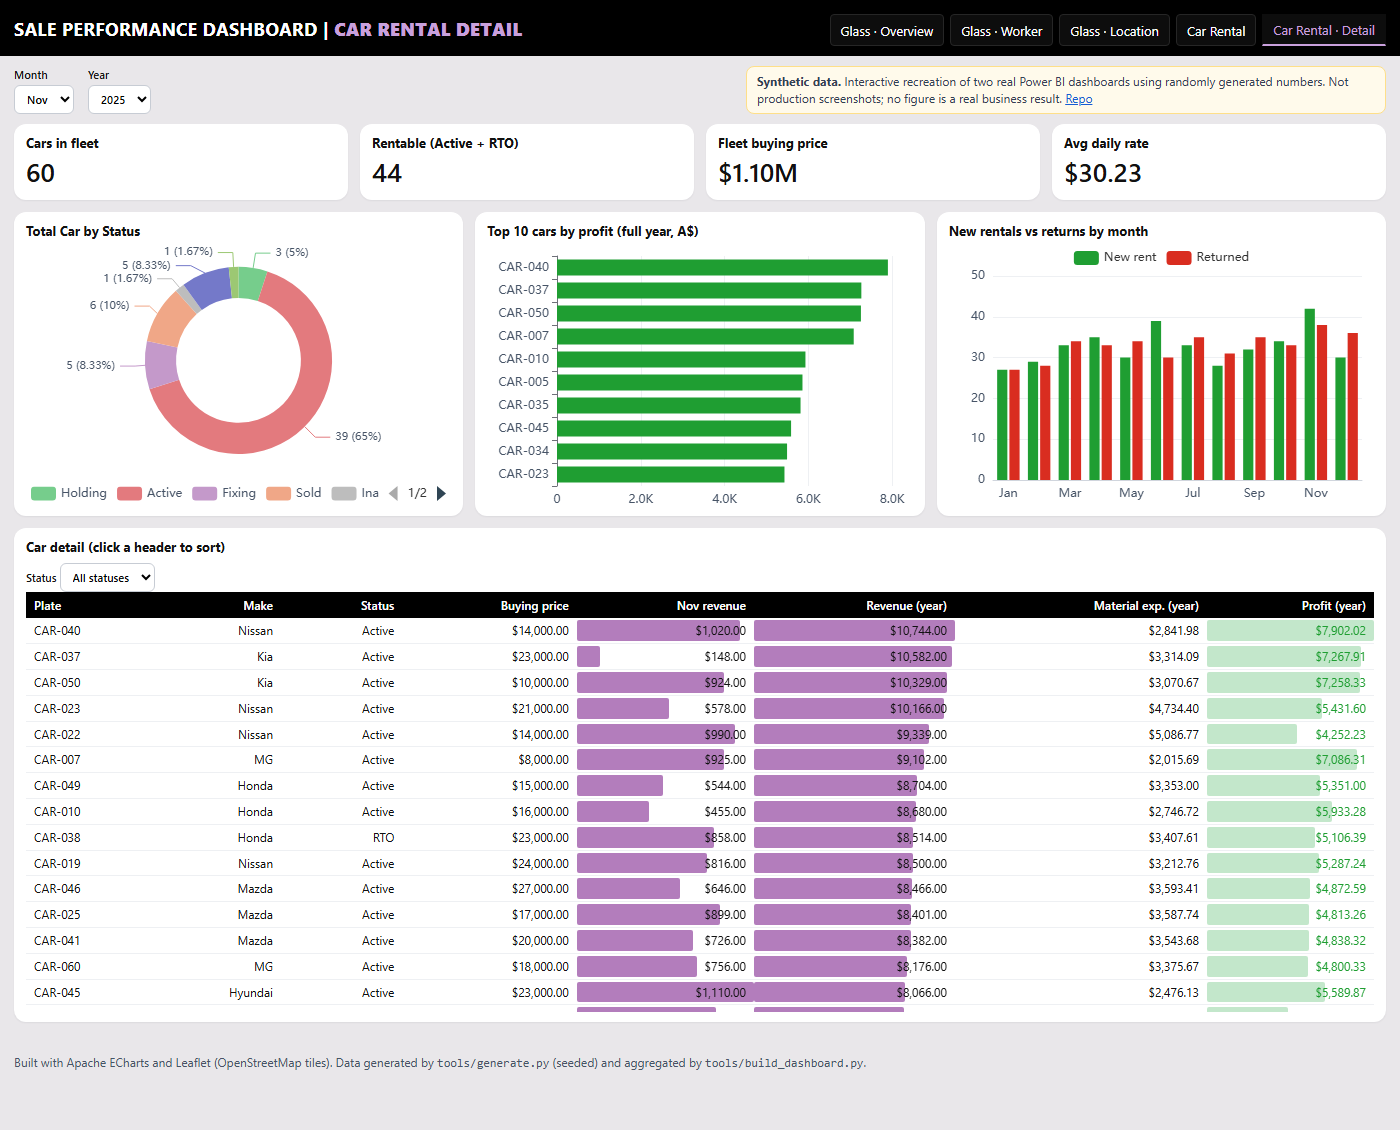
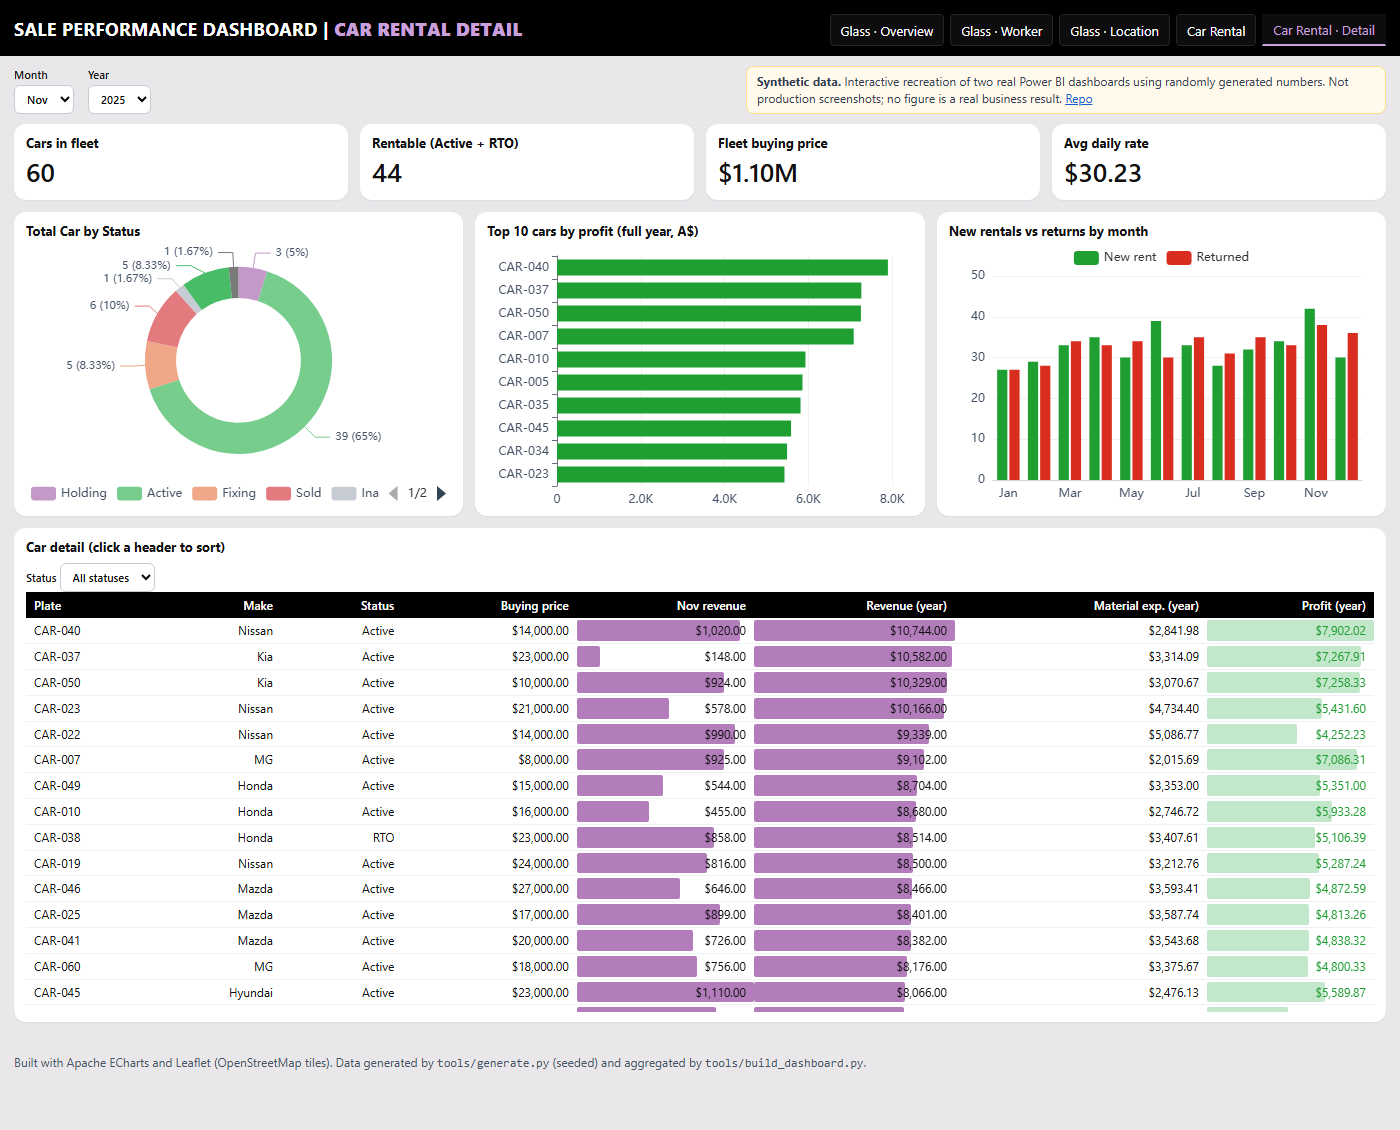
Assign pie/donut colors by category name (status, promotion, material)

Changed region(s): [[0.0921, 0.2168, 0.2457, 0.4027], [0.1843, 0.4336, 0.215, 0.4646], [0.1229, 0.4336, 0.1536, 0.4646]]

diff --git a/docs/index.html b/docs/index.html
@@ -221,6 +221,7 @@ function tbl(cols,rows,o){
   return h+"</tbody></table>";
 }
 function donut(id,data,center,colors){
+  if(colors&&!Array.isArray(colors)){var map=colors;colors=undefined;data=data.map(function(d){return {name:d.name,value:d.value,itemStyle:{color:map[d.name]||"#999"}};});}
   opt(id,{tooltip:{trigger:"item",formatter:function(p){return p.name+": "+usd(p.value,true)+" ("+p.percent+"%)";}},
     legend:{type:"scroll",bottom:0,textStyle:{color:"#475467"}},color:colors,
     title:center?{text:center,left:"center",top:"38%",textStyle:{fontSize:20,fontWeight:400}}:undefined,
@@ -276,7 +277,7 @@ function renderGOver(m){
   for(var i=from;i<=m;i++)cats.push(MN[i-1]);
   stacked("g-expbr",cats,cl.map(function(k){var a=[];for(var i=from;i<=m;i++)a.push(Math.round((GEC[i]||{})[k]||0));return [k,a];}),["#161616","#0e4a7a","#d6d6d6","#ff7733","#7a7a7a","#19a803","#5f8fb3","#bdbdbd","#f2c94c"]);
   var pm=GP[m]||{},names=Object.keys(pm).sort(function(a,b){return pm[b].s-pm[a].s;});
-  donut("g-promo",names.map(function(k){return {name:k,value:+pm[k].s.toFixed(2)};}),null,[ORANGE,BLACK,"#7a7a7a","#bdbdbd","#e0e0e0","#326a96"]);
+  donut("g-promo",names.map(function(k){return {name:k,value:+pm[k].s.toFixed(2)};}),null,{BOGO:ORANGE,B4G4:"#1a1a1a",BSGM:"#7a7a7a",B3G2:"#bdbdbd",B2G2:"#e0e0e0",IM:"#326a96"});
   $("g-promotbl").innerHTML=tbl([{t:"Promotion"},{t:"Number Promo"},{t:"Promo Expenses",bar:ORANGE,f:function(v){return usd(v,true);}},{t:"Cost",f:function(v){return usd(v,true);}},{t:"Total Sales",bar:ORANGE,f:function(v){return usd(v,true);}},{t:"Profit",bar:"#6f95b3",f:function(v){return usd(v,true);}}],
     names.map(function(k){var o=pm[k];return {v:[k,o.n,o.p,o.c,o.s,o.s-o.c-o.p]};}));
   var ec=GEC[m]||{},hr=(ec["Worker Salary"]||0)+(ec["Sales Salary"]||0);
@@ -356,7 +357,7 @@ function renderCOver(m){
   var from=Math.max(1,m-2),cats=[];for(var i=from;i<=m;i++)cats.push(MN[i-1]);
   stacked("c-opbr",cats,["Material","HR","MKT","Office"].map(function(k){var a=[];for(var i=from;i<=m;i++)a.push(Math.round((CG[i]||{})[k]||0));return [k,a];}),["#111","#74cd8b","#a5e3ea","#5a007a"]);
   stacked("c-matbr",cats,Object.keys(CCOL).map(function(k){var a=[];for(var i=from;i<=m;i++)a.push(Math.round((CC[i]||{})[k]||0));return [k,a];}),Object.keys(CCOL).map(function(k){return CCOL[k];}));
-  donut("c-matdonut",Object.keys(mt).map(function(k){return {name:k,value:+mt[k].toFixed(2)};}),null,Object.keys(mt).map(function(k){return CCOL[k]||"#999";}));
+  donut("c-matdonut",Object.keys(mt).map(function(k){return {name:k,value:+mt[k].toFixed(2)};}),null,CCOL);
   // grouped detail
   var items=(CITEMS[m]||[]).slice().sort(function(a,b){return b[5]-a[5];}),groups={};
   items.forEach(function(r){(groups[r[2]]=groups[r[2]]||[]).push(r);});
@@ -379,7 +380,7 @@ function renderCDet(m){
   var sc={};C.cars.forEach(function(c){add(sc,c[3],1);});
   var rent=C.cars.filter(function(c){return c[3]==="Active"||c[3]==="RTO";}).length;
   $("d-kpis").innerHTML=kpi(3,"Cars in fleet",C.cars.length)+kpi(3,"Rentable (Active + RTO)",rent)+kpi(3,"Fleet buying price",usd(sum(C.cars.map(function(c){return c[2];}))))+kpi(3,"Avg daily rate",usd(sum(C.cars.map(function(c){return c[4];}))/C.cars.length,true));
-  donut("d-status",Object.keys(sc).map(function(k){return {name:k,value:sc[k]};}),null,["#76cd8c","#e37a7e","#c499ca","#f0a787","#bdbdbd","#7479c9","#9cc873"]);
+  donut("d-status",Object.keys(sc).map(function(k){return {name:k,value:sc[k]};}),null,{Active:"#76cd8c",RTO:"#48bc66",Sold:"#e37a7e",Holding:"#c499ca",Fixing:"#f0a787",Lost:"#7a7a7a",Inactive:"#c7ccd4"});
   // donut labels for counts
   var c1=ch("d-status");if(c1)c1.setOption({series:[{label:{formatter:function(p){return p.value+" ("+p.percent+"%)";}}}],tooltip:{formatter:function(p){return p.name+": "+p.value;}}});
   var top=rows.slice().sort(function(a,b){return b[7]-a[7];}).slice(0,10).reverse();
